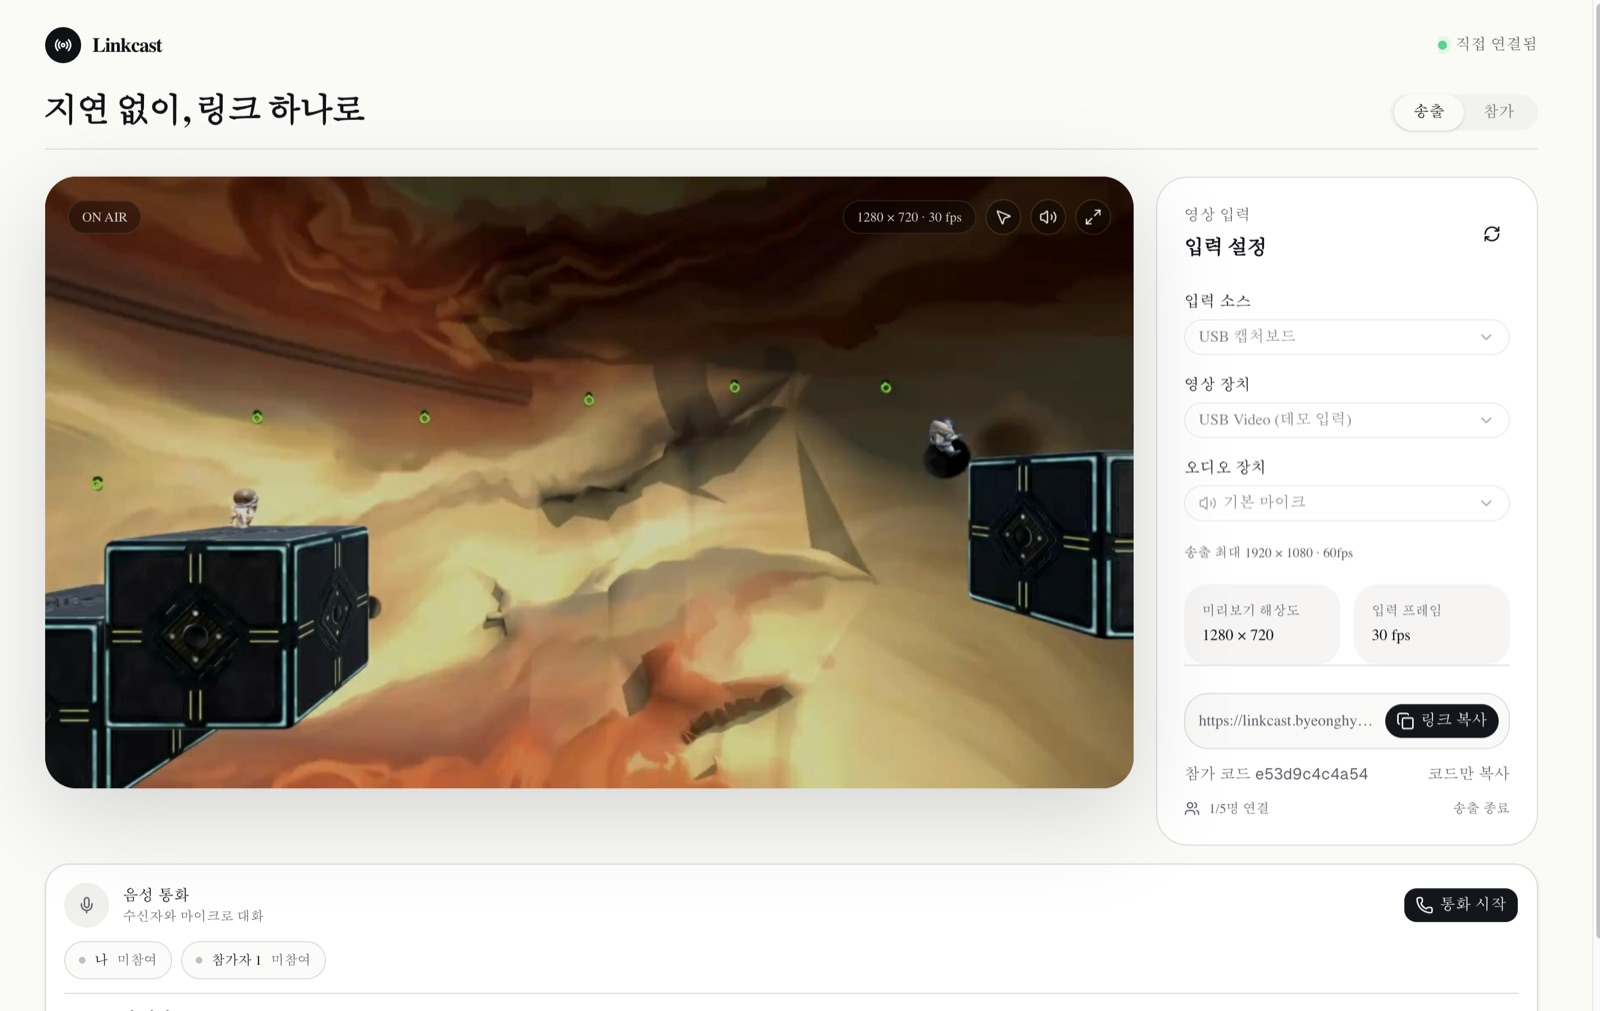
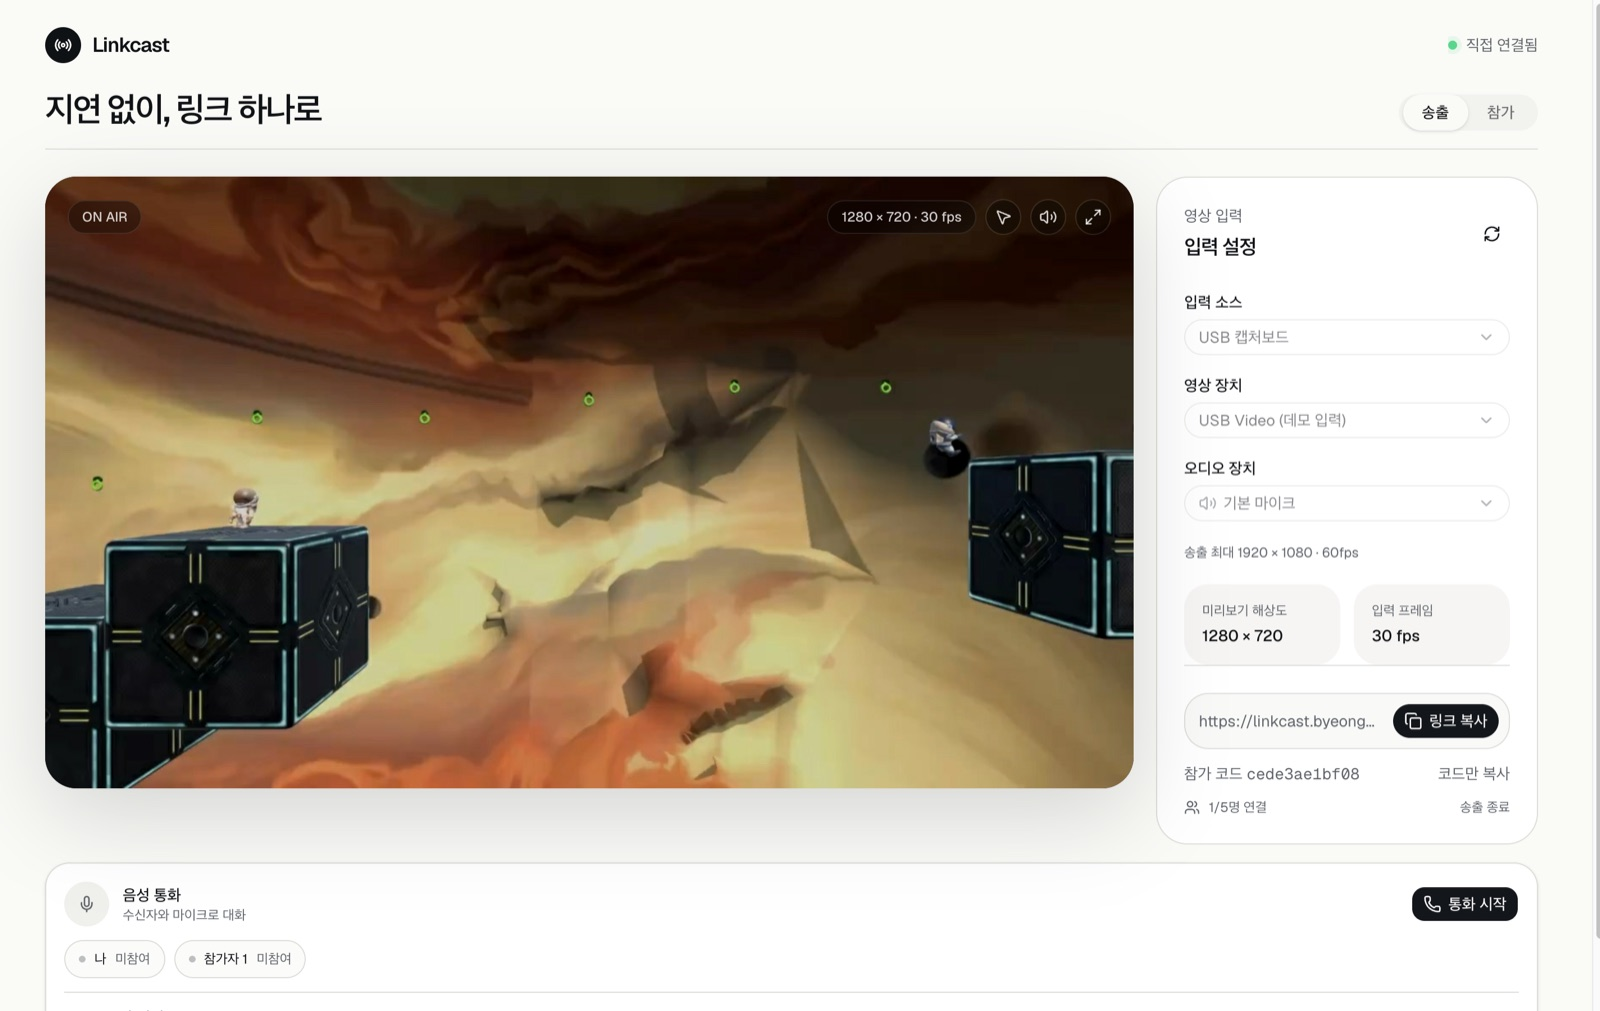
글꼴 수정 후 화면으로 소개 페이지 캡처 다시 찍기

diff --git a/docs/index.html b/docs/index.html
@@ -54,7 +54,7 @@
       <div><dt>참가 인원</dt><dd>송출자 + 최대 5명</dd></div>
     </dl>
     <figure class="hero-media">
-      <img src="assets/host.jpg" alt="Linkcast 송출자 화면: 왼쪽에 송출 중인 게임 화면과 ON AIR 표시, 오른쪽에 입력 설정·공유 링크·참가 코드·연결 인원 1/5명" width="1600" height="1011">
+      <img src="assets/host.jpg?v=2" alt="Linkcast 송출자 화면: 왼쪽에 송출 중인 게임 화면과 ON AIR 표시, 오른쪽에 입력 설정·공유 링크·참가 코드·연결 인원 1/5명" width="1600" height="1011">
       <figcaption>실제 서비스의 송출자 화면. 참가자 한 명이 연결된 상태로, 오른쪽에 공유 링크와 참가 코드, 연결 인원이 표시됩니다. 입력으로는 데모 영상(NODE 게임 화면)을 사용했습니다.</figcaption>
     </figure>
   </section>
@@ -64,7 +64,7 @@
     <div class="section-body">
       <p class="intro">친구 몇 명에게 게임 화면을 보여 주고 싶을 때, 설치 없이 브라우저에서 링크만 열면 되는 가벼운 방송을 목표로 만들었습니다.</p>
       <figure>
-        <img class="frame" src="assets/viewer.jpg" alt="Linkcast 참가자 화면: 송출 영상 위에 레이저 모드로 그린 빨간 포인터 선, 상단에 LIVE와 음량·전체화면·나가기 버튼" width="1600" height="1011" loading="lazy">
+        <img class="frame" src="assets/viewer.jpg?v=2" alt="Linkcast 참가자 화면: 송출 영상 위에 레이저 모드로 그린 빨간 포인터 선, 상단에 LIVE와 음량·전체화면·나가기 버튼" width="1600" height="1011" loading="lazy">
         <figcaption>참가자 화면. 레이저 모드를 켜고 드래그하면 빨간 포인터가 송출자에게도 그대로 보입니다. 상단에서 음량, PiP, 전체화면을 조절합니다.</figcaption>
       </figure>
       <div class="roles">
